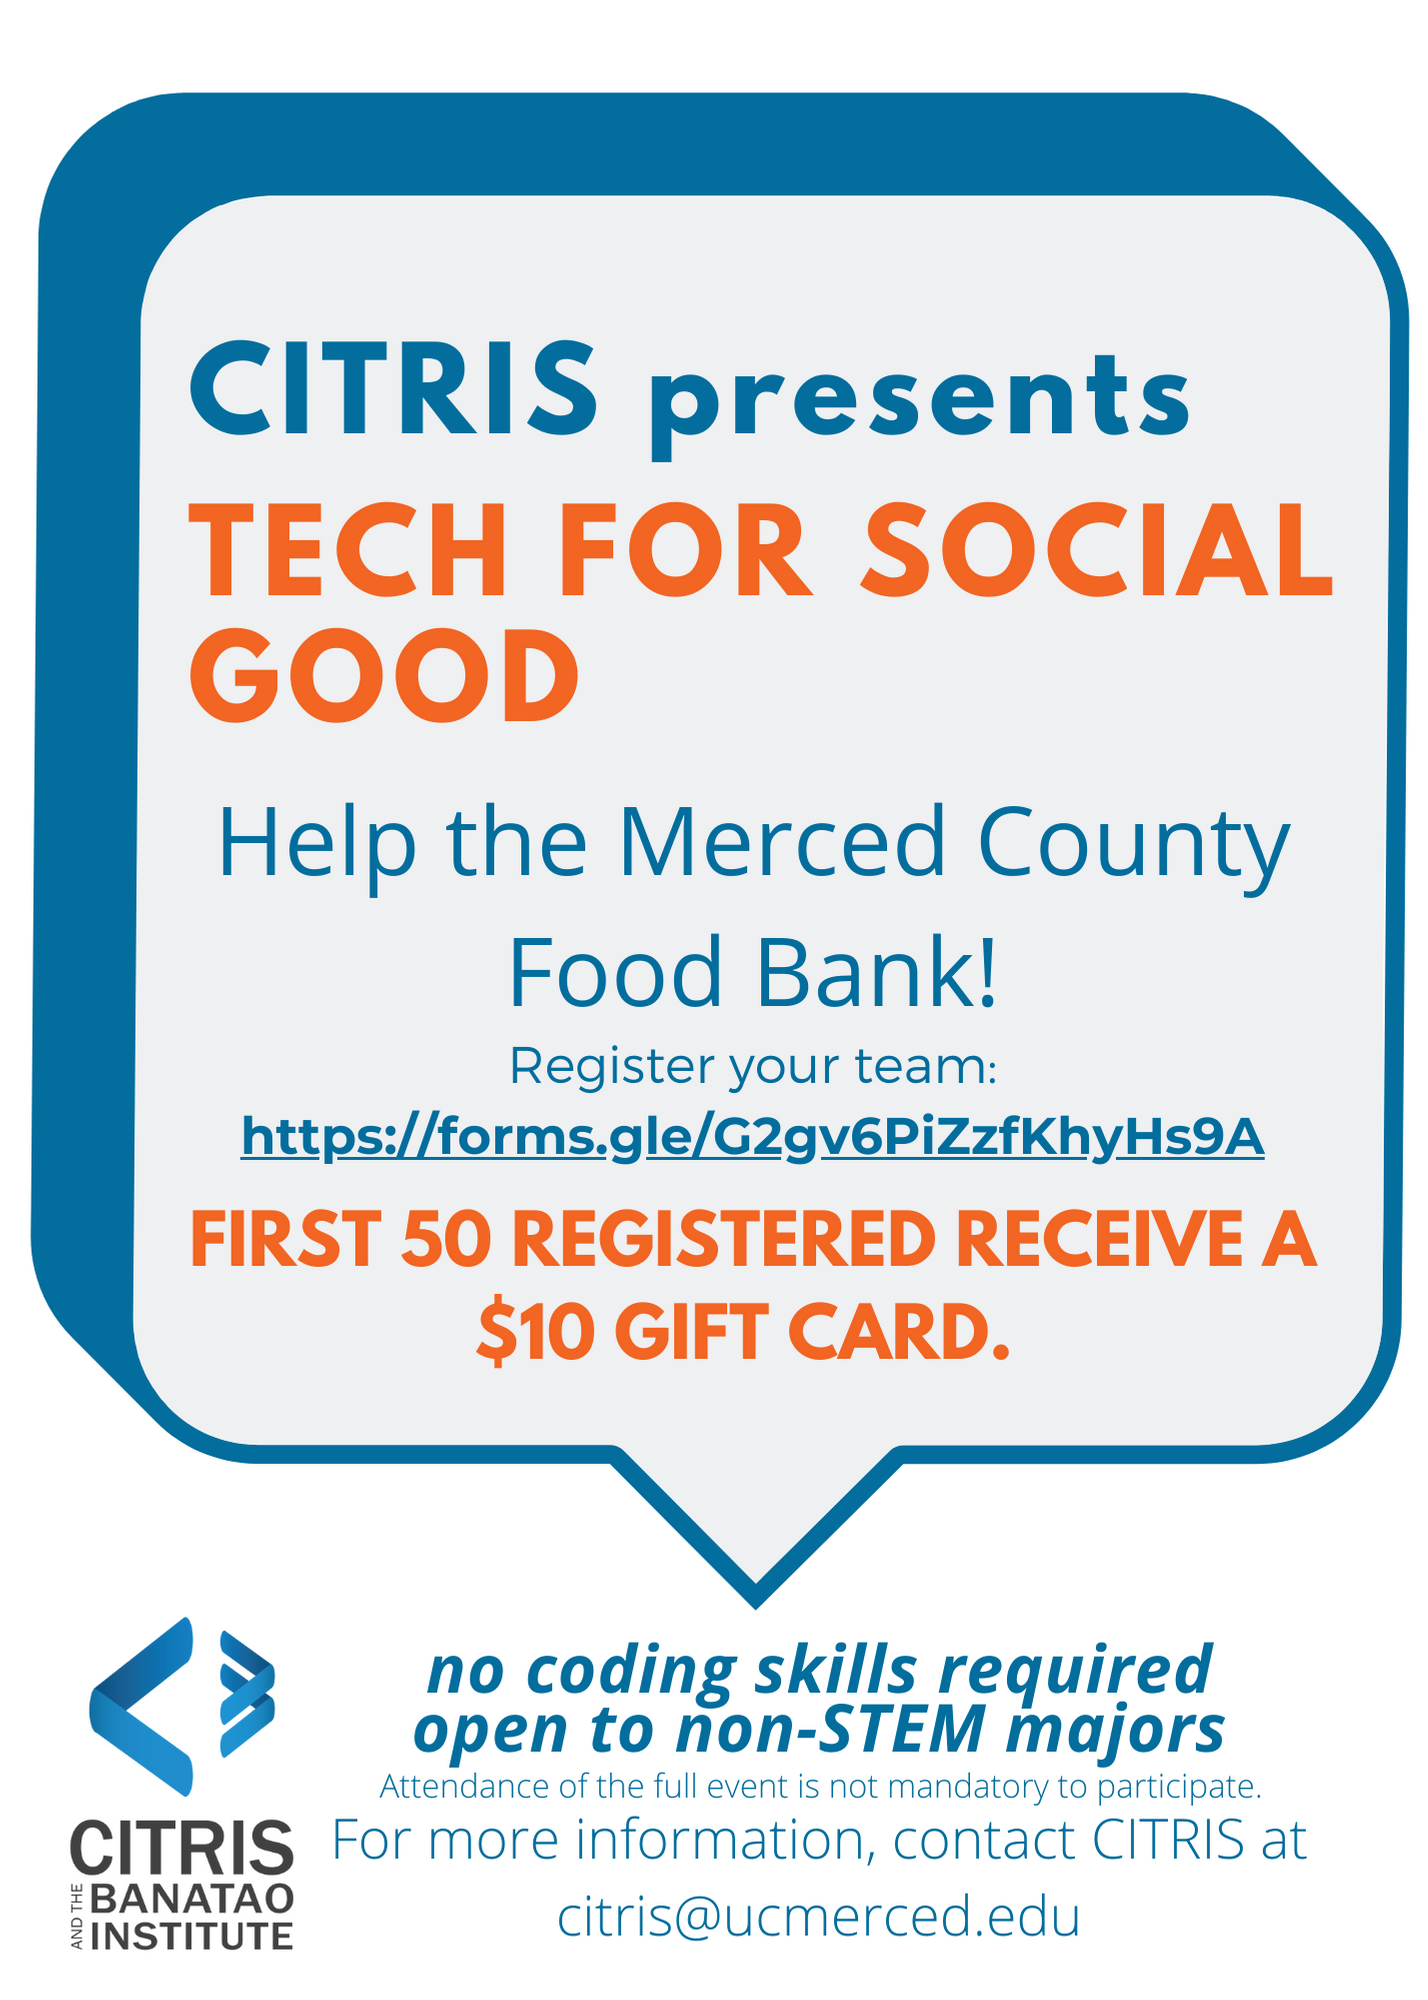
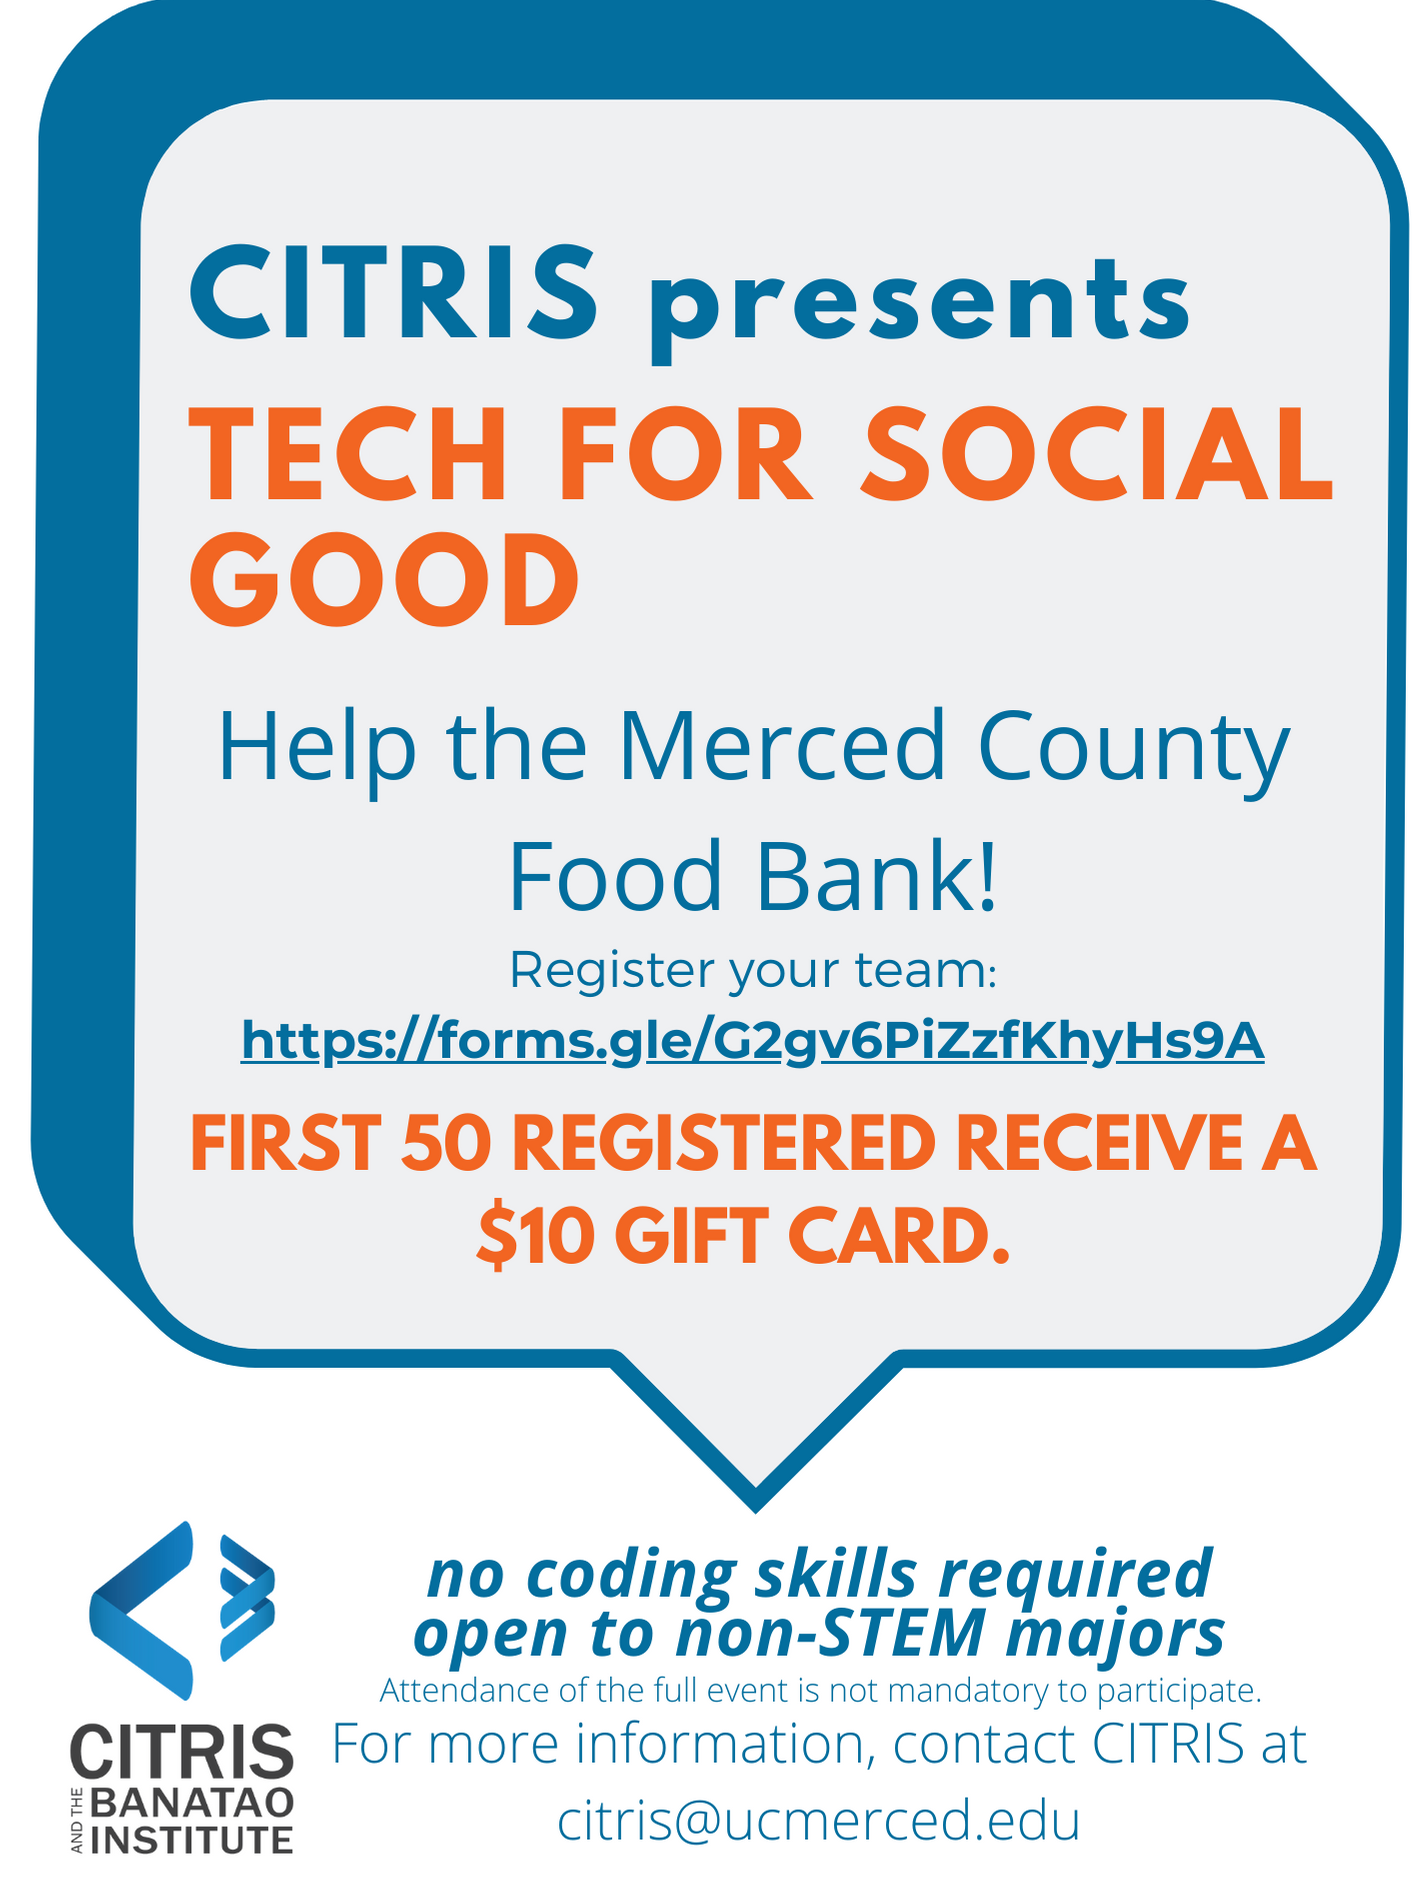
tsg edits centered

Changed region(s): [[0.0, 0.0, 1.0, 0.9921]]

diff --git a/tech-for-social-good.html b/tech-for-social-good.html
@@ -109,41 +109,51 @@
                                         undergraduate students, groups, teams or organizations developing hardware, software, events or programs
                                         that support healthy, sustainable, connected, and equitable livelihoods in the United States and abroad.
                                     </p>
+                                    <center>
+                                        <a class="button" href="https://forms.gle/8A5SDZV3VSdF5NFL9">Register through March 1st</a> 
+                                        <a class="button" href="https://drive.google.com/file/d/1USNiDNyZABHwo0ogpQTEPriwbQKvPuv3/view?usp=sharing">Project Details</a>
+                                    </center>
                                     
-                                    <a class="button" href="https://forms.gle/8A5SDZV3VSdF5NFL9">Register</a> 
-                                    <a class="button" href="https://drive.google.com/file/d/1USNiDNyZABHwo0ogpQTEPriwbQKvPuv3/view?usp=sharing">Project Details</a> 
+                                    <center>
                                     <h3>
-                                        <Br>TECH FOR SOCIAL GOOD INFO SESSION <BR>
-                                        FRIDAY, FEBRUARY 21ST FROM 3PM - TO 5PM AT COB2 140
-                                    </h3>
+                                        <Br><font size="6">TECH FOR SOCIAL GOOD </font> <Br> 
+                                        <!-- FRIDAY, FEBRUARY 21ST FROM 3PM - TO 5PM AT COB2 140 -->
+                                        </h3>
+                               
                                     <!--Check back later for Tech for Social Good Program details and deadlines*/-->
-                                    <ul>
-                                        <li>
-                                            *No coding experience required*
+                                    <center>
+                                        <table class="tg" style="width:42%">
+                                            <tr>
+                                    <tr>
+                                        <td>
+                                            Open to non-STEM majors
                                            
-                                        </li>
-                                        <li>
+                                           
+                                        </td>
+                                    </tr>
+                                    <tr>
+                                        <td>
+                                            *No coding experience required*
                                             
-                                            Project: Merced County Food Bank
-                                        </li>
-                                        
-                                        <li>
-                                            <!-- Have fun while enacting change that addresses society’s most pressing
-                                            problems. -->
-                                        </li>
-                                        <li>
-                                            <!-- Add a prominent addition of work experience beyond regular internships to
-                                            your resume. -->
+                                        </td>
+                                    </tr>
+                                        <!-- <li>
+                                             Have fun while enacting change that addresses society’s most pressing
+                                            problems. 
                                         </li>
                                         <li>
-                                            Open to non-STEM majors and registration is open until March 1st.
-                                        </li>
-                                        
-                                        <li>
+                                            Add a prominent addition of work experience beyond regular internships to
+                                            your resume. 
+                                        </li> -->
+                                        <td>
                                             First 50 registered receive a $10 gift card. <br>
                                             *To receive the gift card, you must attend one mentoring session or mentoring meeting with your team.*
-                                        </li>
+                                        </td>
                                     </ul>
+                                </tr>
+                            </table>
+                        </center>
+                                </center>
                                     <section class="box featured">
                                         <p>
                                         <a href="tech-for-social-good.html">
